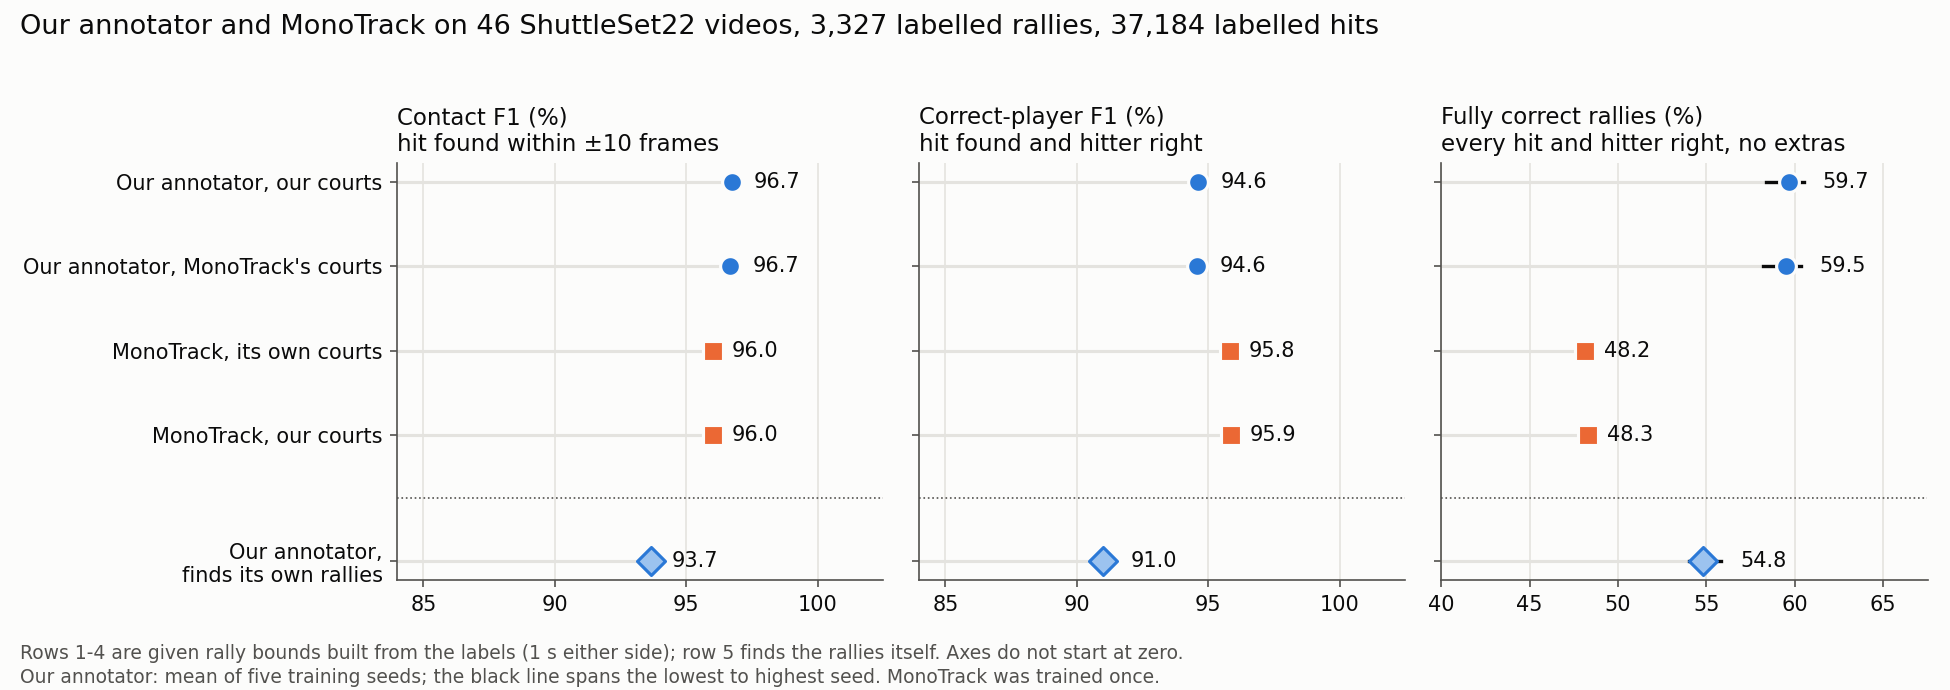
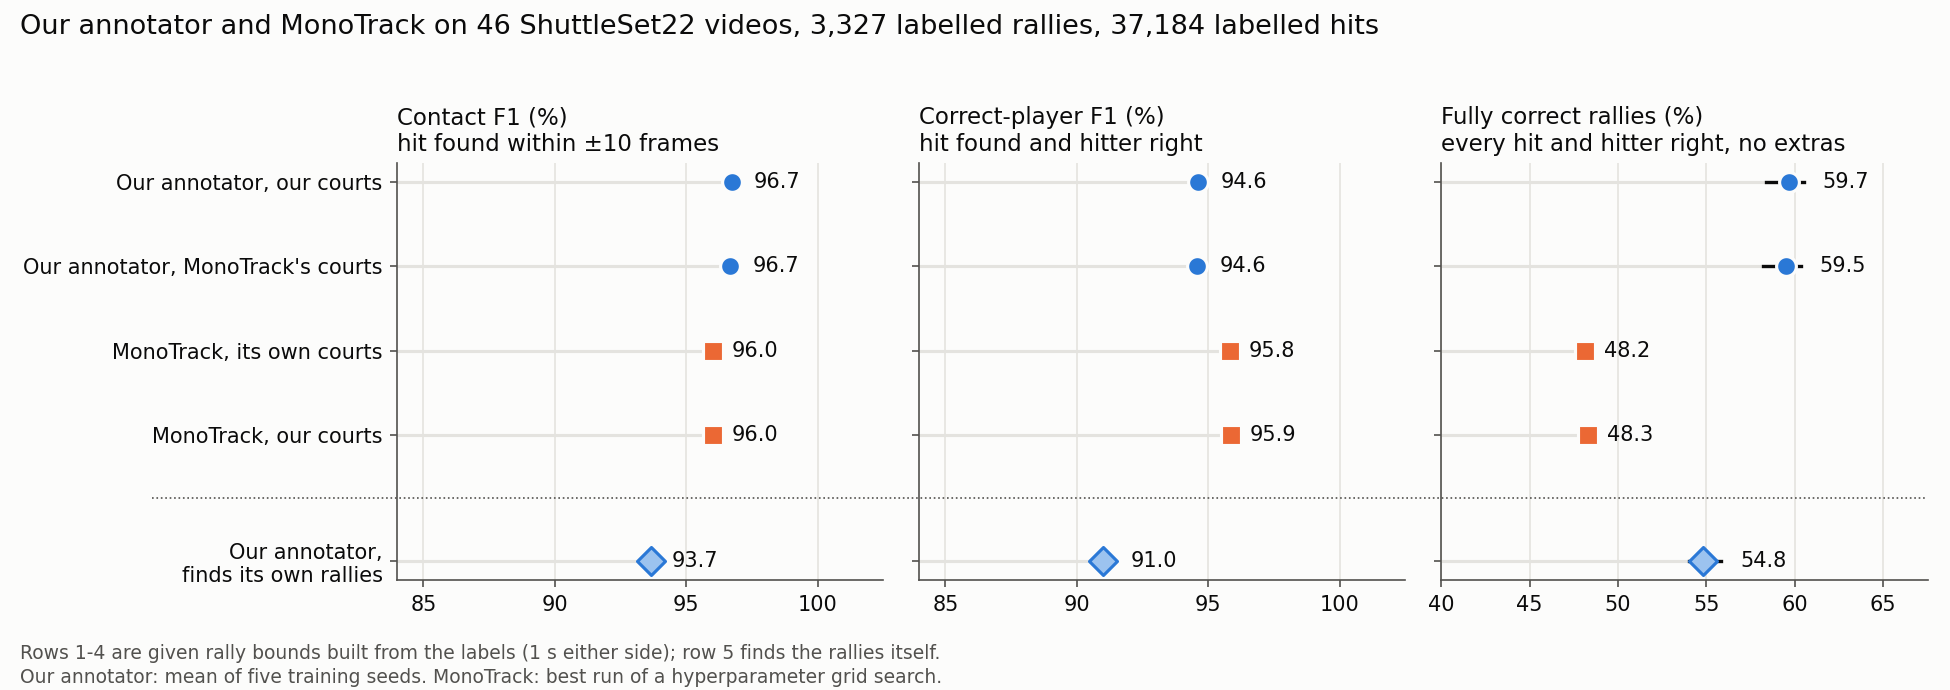
Tidied README and benchmark figure captions

Changed region(s): [[0.2154, 0.9435, 0.6154, 1.0]]

diff --git a/experiments/annotator/monotrack_benchmark/writeup_scripts/make_figures.py b/experiments/annotator/monotrack_benchmark/writeup_scripts/make_figures.py
@@ -20,6 +20,7 @@ import numpy as np
 import pandas as pd
 from matplotlib.legend import Legend
 from matplotlib.legend_handler import HandlerTuple
+from matplotlib.lines import Line2D
 
 MONOTRACK_COLOUR = '#eb6834'
 ANNOTATOR_COLOUR = '#2a78d6'
@@ -130,14 +131,22 @@ def headline_figure(summary: dict, out: Path) -> None:
         axes.set_xlim(low, high + 2.5)
         axes.set_title(title, fontsize=11, color=TEXT, loc='left')
     axes_row[0].set_yticks(rows, [label for _key, label, _colour, _marker in HEADLINE_ROWS], fontsize=10)
-    for axes in axes_row:
-        axes.axhline(rows[-1] + 0.75, color=MUTED, linewidth=0.8, linestyle=':')
     figure.suptitle(f'Our annotator and MonoTrack on {POPULATION}', fontsize=13, color=TEXT, x=0.01, ha='left')
     figure.text(0.01, 0.045, 'Rows 1-4 are given rally bounds built from the labels (1 s either side); row 5 finds '
-                'the rallies itself. Axes do not start at zero.', fontsize=9, color=MUTED)
-    figure.text(0.01, 0.01, 'Our annotator: mean of five training seeds; the black line spans the lowest to highest '
-                'seed. MonoTrack was trained once.', fontsize=9, color=MUTED)
+                'the rallies itself.', fontsize=9, color=MUTED)
+    figure.text(0.01, 0.01, 'Our annotator: mean of five training seeds. MonoTrack: best run of a hyperparameter '
+                'grid search.', fontsize=9, color=MUTED)
     figure.tight_layout(rect=(0, 0.075, 1, 0.95))
+    # One dotted line across all three panels sets the self-finding row apart. It starts under the
+    # row label above it. Drawn after layout, because it needs the final label and panel positions.
+    figure.draw_without_rendering()
+    to_figure = figure.transFigure.inverted()
+    _x, divider_y = to_figure.transform(axes_row[0].transData.transform((0, rows[-1] + 0.75)))
+    label_above = axes_row[0].get_yticklabels()[len(HEADLINE_ROWS) - 2]
+    left = to_figure.transform(label_above.get_window_extent().p0)[0]
+    right = axes_row[-1].get_position().x1
+    figure.add_artist(Line2D([left, right], [divider_y, divider_y], transform=figure.transFigure,
+                             color=MUTED, linewidth=0.8, linestyle=':'))
     figure.savefig(out / 'fig1_headline.png', dpi=150, facecolor=SURFACE)
     plt.close(figure)
 

diff --git a/README.md b/README.md
@@ -1,11 +1,9 @@
 # Badminton CV Annotator
 
-We've turned badminton broadcasts into structured evidence about **how each player is actually playing**.
-
-We couldn't find a large existing dataset built around individual badminton performance, so we made one. We also built the systems you'd need to make a similar dataset from any collection of badminton videos.
+Our code turns badminton video into rallies, hit times and measures of how each player moves. We used it to build a dataset for assessing badminton players, adding pose, court position, performance measures and commentary to 6,833 rallies from 86 professional matches.
 
 If you're looking to build your own dataset or analyse your own games, the two most interesting sub-systems are:
-- The auto-annotator. It takes a raw badminton video, extracts all the motion data, and marks up the rally boundaries and hit times. That lets you go straight to the important bits of a long, uncut video.
+- The auto-annotator. It takes a raw badminton video, extracts all the motion data, and marks up the rally boundaries and hit times. This allows you to get straight to evaluating rally play in a long, uncut video.
 - The court detector. Give it a video, or even a still image, and it will find your badminton court.
 
 Our pipeline runs end-to-end. It finds and filters match videos, downloads them, extracts court geometry, player pose and shuttle tracks, detects rallies and hits, works out who made each hit, cleans and aligns commentary, and turns the whole lot into a research-backed featureset.
@@ -25,11 +23,11 @@ flowchart LR
     I -. "optional stroke labels" .-> H
 ```
 
-Our models extract pose, court position, shuttle tracks, rally spans and hit times from each video. We turn these into research-backed measurements like posture variability, recovery behaviour, movement and timing. Our aim is to give a future weakly-supervised model enough information to learn meaningful dimensions of player performance, rather than just predicting match outcomes or stroke labels.
+Our models extract pose, court position, shuttle tracks, rally spans and hit times from each video. We turn these into research-backed measurements like posture variability, recovery behaviour, movement and timing. Our aim is to give a future weakly-supervised model enough information to learn meaningful dimensions of player performance.
 
-We've also extracted 6,254 commentary passages, so a future team can try training an auto-grader with commentary as weak labels [(Rai & Kovashka, 2026)](https://arxiv.org/html/2602.08996v1). We clean each transcript, align it to the video (WhisperX), and link it to the rally it describes.
+We've also extracted 6,254 commentary passages, so a future team can try training an auto-grader with commentary as weak labels [(Rai & Kovashka, 2026)](https://arxiv.org/html/2602.08996v1). Transcripts are cleaned, their timestamps aligned (WhisperX) and linked to the rallies they describe.
 
-At this stage we've built a proof-of-concept dataset from [ShuttleSet](https://arxiv.org/abs/2306.04948) (KDD 2023) and ShuttleSet22, both released by the [CoachAI group](https://github.com/wywyWang/CoachAI-Projects/tree/main/ShuttleSet). We took the hit times, hitters and shot types from those datasets' existing labels, and everything else comes from our pipeline. Our auto-annotator's shot classifications, hit timings and attributions are highly accurate, but its rallies still need some manual review, and we wanted research-grade labels throughout.
+At this stage we've built a proof-of-concept dataset from [ShuttleSet](https://arxiv.org/abs/2306.04948) (KDD 2023) and ShuttleSet22 ([CoachAI](https://github.com/wywyWang/CoachAI-Projects/tree/main/ShuttleSet)). We took the hit times, hitters and shot types from those datasets' existing labels, and everything else comes from our pipeline. Our auto-annotator's shot classifications, hit timings and attributions are highly accurate, but its rallies still need some manual review, and we wanted research-grade labels throughout.
 
 ## Auto-annotator
 
@@ -37,7 +35,7 @@ At this stage we've built a proof-of-concept dataset from [ShuttleSet](https://a
 
 *GIF at half speed; detected court in red*
 
-We use physical rules to find the court, skip replays and other broadcast events, split the video into rallies, spot candidate hits and assign each hit to a player. Three gradient-boosted tree models then pick each rally's real hits and score each finished rally for confidence.
+We use physical rules to find the court, skip replays and other broadcast events, split the video into rallies, spot candidate hits and assign each hit to a player. Rallies are then refined and assigned confidence scores by three gradient-boosted tree models (XGBoost).
 
 We benchmarked our annotator against [MonoTrack](https://cs.stanford.edu/people/paulliu/files/cvpr-2022.pdf) (CVPR 2022, 130k parameters), training both on the same 32 ShuttleSet videos, and testing on the separate ShuttleSet22 dataset.
 
@@ -45,16 +43,16 @@ We benchmarked our annotator against [MonoTrack](https://cs.stanford.edu/people/
 
 *MonoTrack needs rally boundaries provided*
 
-Our model, unlike most systems, can reliably discover its own rally boundaries to automate annotation of a raw video (bottom row).
+Our model, unlike most systems, can reliably discover its own rally boundaries to automate annotation of a raw video (figure above, bottom row).
 
-It also gives each rally a confidence score, so you can trade recall for less manual review:
+Each rally gets a confidence score, so you can trade recall for less manual review:
 
 | Confidence threshold | Rallies kept / 3,327 | Right start and end | Need no fixes |
 | ---: | ---: | ---: | ---: |
 | 0.675 | 926 | 99.0% | 80.5% |
 | 0.50 | 1,558 | 98.0% | 73.3% |
 
-*Most fixes are a single contact per rally.*
+*Most fixes are a single contact per rally*
 
 Read the full [benchmark report](experiments/annotator/monotrack_benchmark/annotator_monotrack_own_weights_compared_writeup_v5.md), or [get started](docs/annotator/quickstart.md) with the annotator.
 
@@ -67,7 +65,7 @@ The court detector returns the four outer corners of the court in an image or vi
 | Ours | 3.8 px | 85.8% |
 | MonoTrack's | 6.5 px | 17.2% |
 
-*Errors are in 1920×1080 video pixels.*
+*Errors are in 1920×1080 video pixels*
 
 We've released [court detections for all 86 ShuttleSet and ShuttleSet22 videos](data/court_detections/sset_and_sset22/extractions_20261003/README.md), covering 44,810 scenes. For 85 of the 86 videos, the main-camera court is within 5 px of the reference corners.
 
@@ -79,9 +77,7 @@ The dataset has 6,833 rallies from 86 professional singles matches, with 43 play
 
 ![How much of each measure comes down to the player rather than the match](docs/images/dataset_player_signature.png)
 
-You can see how each player moves, stands, recovers and picks their shots, rally by rally.
-
-### Dataset handover
+You can follow each player rally by rally, with research-backed measures of posture variability, recovery behaviour, movement, shot preference and timing. You can also see how posture, recovery, movement and rally length trend across each match.
 
 Download the dataset from the [v2 release](https://github.com/ahalp90/badminton_cv_annotator/releases/tag/dataset-v2). The optional supporting extracts are on [Google Drive](https://drive.google.com/drive/folders/1BnkYZrfo1KfIXe4aK7PSRtrEirVhWHP1).
 
@@ -95,8 +91,6 @@ Download the dataset from the [v2 release](https://github.com/ahalp90/badminton_
 This project grew out of our earlier stroke classifier, **BST-X**. It classifies a single stroke from pose and shuttle data around the hit. On ShuttleSet's original 25 stroke classes it beat the published BST and TemPose models, with our best run reaching about **0.830 macro-F1**, or **0.865** on the ShuttleSet authors' 10 broader stroke types.
 
 ![BST-X comparison on ShuttleSet](docs/images/bar_chart_overall_shuttleset_comparison.png)
-
-We've largely finished that work and moved on from single strokes to whole rallies and, eventually, player performance.
 
 ## Running it
 
@@ -120,7 +114,7 @@ You'll find the other extras in [`pyproject.toml`](pyproject.toml).
 
 You can build a dataset from any YouTube searches you like. You'll also need a CUDA GPU and a C++ compiler.
 
-1. Install the builder. YouTube keeps blocking older yt-dlp releases, so upgrade yt-dlp and its PO-token plugin straight after syncing. We last tested with yt-dlp 2026.08.19, Deno 2.9.7 and bgutil 1.3.1.
+1. Install the dataset builder. YouTube keeps blocking older yt-dlp releases, so upgrade yt-dlp and its PO-token plugin straight after syncing. Last tested with yt-dlp 2026.08.19, Deno 2.9.7 and bgutil 1.3.1.
 
    ```bash
    uv sync --extra builder
@@ -138,7 +132,7 @@ You can build a dataset from any YouTube searches you like. You'll also need a C
    wget https://cvg-data.inf.ethz.ch/DeepLSD/deeplsd_md.tar -O runtime/checkpoints/deeplsd/DeepLSD/weights/deeplsd_md.tar
    ```
 
-   Skip DeepLSD's own install script. You installed the packages it needs in step 1.
+   Skip DeepLSD's own install script. Its relevant packages were installed at step 1.
 
 4. Start the [bgutil PO-token server](https://github.com/Brainicism/bgutil-ytdlp-pot-provider#1-set-up-the-provider) so YouTube doesn't block your downloads. With Docker:
 
@@ -146,7 +140,7 @@ You can build a dataset from any YouTube searches you like. You'll also need a C
    docker run --name bgutil-provider -d --init -p 127.0.0.1:4416:4416 brainicism/bgutil-ytdlp-pot-provider
    ```
 
-5. Copy the trial config and set your own searches in the copy. The builder only runs from a clean checkout, so leave the tracked configs unchanged.
+5. Copy the trial config and set your own searches in the copy. The dataset builder only runs from a clean checkout, so leave the tracked configs unchanged.
 
    ```bash
    cp configs/dataset_builder/trial.toml my_dataset.toml
@@ -157,7 +151,7 @@ You can build a dataset from any YouTube searches you like. You'll also need a C
    match = ["BWF World Tour women's singles final"]
    ```
 
-6. Run it with `--no-sync`, so uv leaves your GPU setup alone:
+6. Run it. Use `--no-sync` so uv doesn't undo your GPU setup from step 2:
 
    ```bash
    export BADMINTON_TRACKNET_PYTHON="$PWD/.venv/bin/python"
@@ -171,7 +165,7 @@ You can build a dataset from any YouTube searches you like. You'll also need a C
 
 If you re-run it against the same folder, it checks and reuses the stages it's already finished instead of redoing the expensive vision work.
 
-The builder uses Gemini to pick and clean commentary. WhisperX needs its own venv, because it pins an older torch. Without it, commentary keeps YouTube's caption timing.
+The dataset builder uses Gemini to pick and clean commentary. WhisperX needs its own venv, because it pins an older torch. Without it, commentary keeps YouTube's caption timing.
 
 ## Project
 
@@ -179,8 +173,8 @@ Capstone project at the University of New England (Australia). Ongoing research 
 
 | Stage | Contributors |
 | --- | --- |
-| Ongoing | **Ariel Halperin** |
-| COSC595 | **Ariel Halperin** (machine learning); **Curtis Martin** (dataset) |
-| COSC594/COSC320 | **Ariel Halperin** (BST-X); **Scott Bailey** (BRIC stroke classifier); front end led by **Curtis Martin**, with Scott Bailey, Kiri Lefebvre, Isiah Darcy, Ethan McDonough and Jared Pitman |
+| Ongoing | Ariel Halperin |
+| COSC595 | Ariel Halperin (machine learning); Curtis Martin (dataset) |
+| COSC594/COSC320 | Ariel Halperin (BST-X); Scott Bailey (BRIC stroke classifier); front end led by Curtis Martin, with Scott Bailey, Kiri Lefebvre, Isiah Darcy, Ethan McDonough and Jared Pitman |
 
 Licensed under the **GNU Lesser General Public License v3.0 or later**. See [COPYING.LESSER](COPYING.LESSER), [COPYING](COPYING), and [`data/ATTRIBUTION.md`](data/ATTRIBUTION.md) for third-party and dataset attribution.

diff --git a/docs/dataset_builder/commentary_manual_review_20261002.md b/docs/dataset_builder/commentary_manual_review_20261002.md
@@ -14,7 +14,7 @@ Two chunks each link to two candidate rallies, giving **3,500 commentary–rally
 links** in total. The 2,756 unlinked chunks remain in the dataset with their
 accompanying video times. This preserves commentary beyond the rally-linked
 examples; replays and other non-rally scene types are not separately counted.
-The [dataset handover](../../README.md#dataset-handover) describes the full delivery.
+The [dataset handover](../../README.md#the-dataset) describes the full delivery.
 
 Curtis Martin reviewed **134 commentary passages from 85 videos**, covering
 135 of those candidate rally links.
